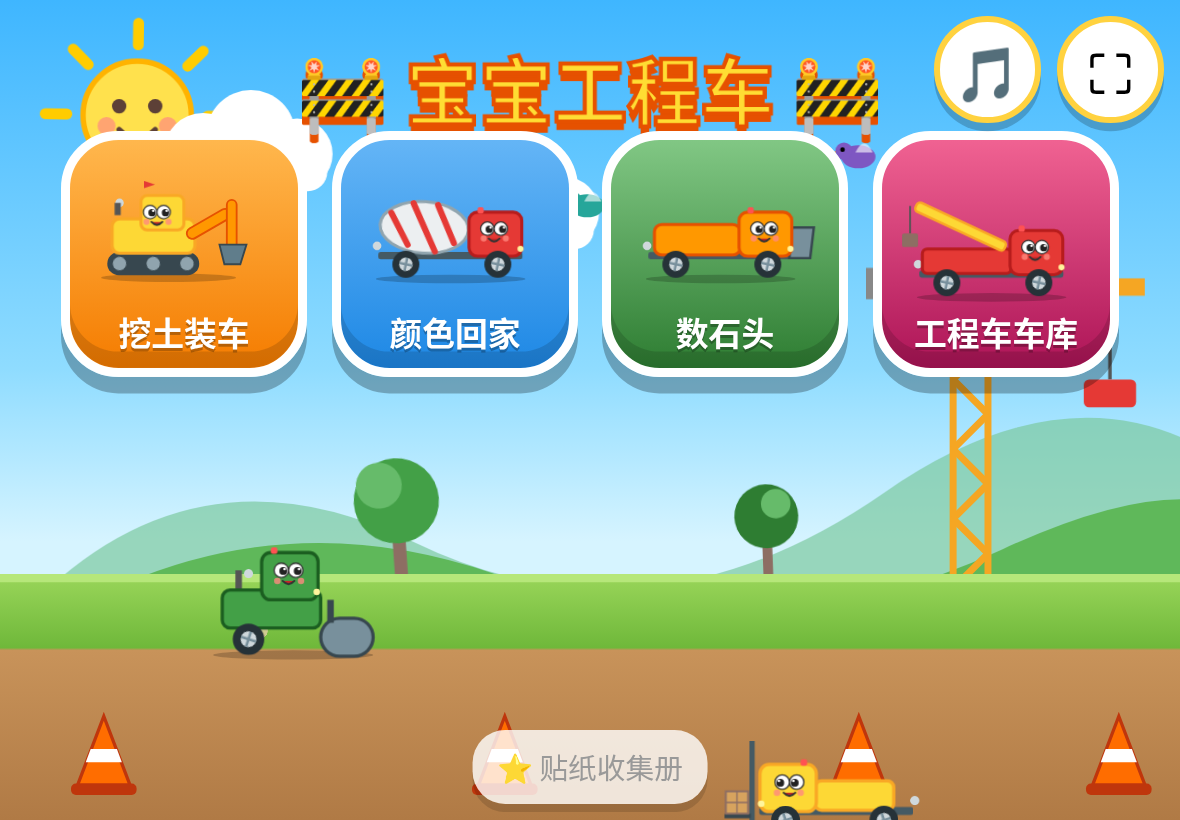
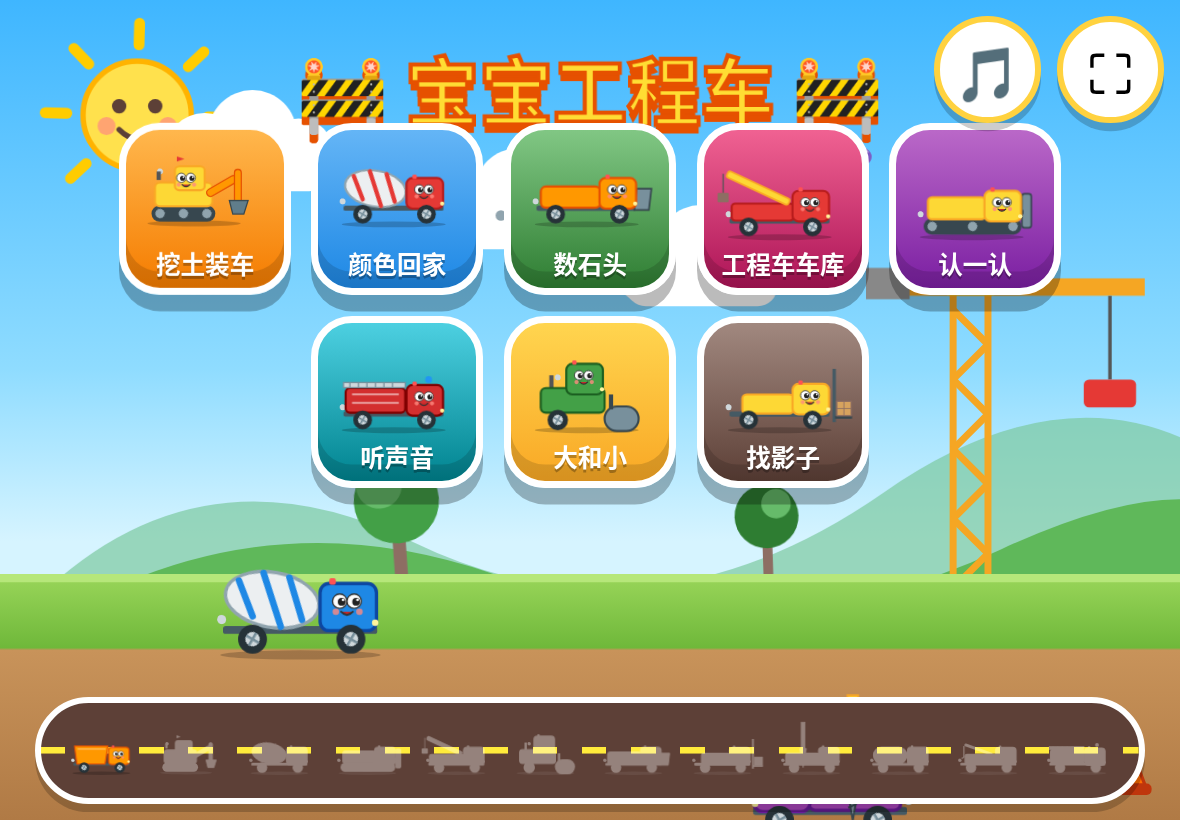
Games 5-8 + progress road

diff --git a/index.html b/index.html
@@ -93,6 +93,19 @@ svg{overflow:visible}.tap{cursor:pointer;pointer-events:auto}
 @keyframes scoop{50%{transform:rotate(-30deg)}}@keyframes rollA{50%{transform:translateX(18px)}}
 #nm{position:fixed;left:50%;bottom:4vh;transform:translateX(-50%) scale(0);background:#fff;border-radius:5vmin;padding:1.5vmin 5vmin;font-size:7vmin;font-weight:900;color:#e65100;z-index:35;transition:transform .3s cubic-bezier(.3,1.6,.6,1);pointer-events:none}#nm.show{transform:translateX(-50%) scale(1)}
 #rocks{width:46vw}.rock{width:15vmin;height:13vmin}
+
+.big{width:21vmin;height:21vmin;border-radius:5vmin;border-width:.9vmin;font-size:3vmin}#btns{inset:15vh 4vw auto 4vw;gap:2.5vmin}
+.big:nth-child(5){animation-delay:.2s}.big:nth-child(6){animation-delay:.6s}.big:nth-child(7){animation-delay:1s}.big:nth-child(8){animation-delay:1.4s}
+.ch{position:absolute;top:16vh;bottom:5vh;left:3vw;right:3vw;display:flex;justify-content:space-around;align-items:center;pointer-events:none}
+.card{pointer-events:auto;background:#fffd;border-radius:5vmin;border:1vmin solid #ffd23f;box-shadow:0 1.5vmin 0 #0003;display:flex;align-items:center;justify-content:center;width:28vw;max-width:42vmin;aspect-ratio:1.2}
+.card svg{width:90%}.card:active{transform:scale(.94)}
+.sil svg{filter:brightness(0);opacity:.35}
+#drag8{position:absolute;bottom:3vh;left:50%;width:30vmin;margin-left:-15vmin;touch-action:none}
+#c8{bottom:40vh;top:14vh}
+#replay{position:absolute;left:50%;bottom:4vh;transform:translateX(-50%);width:18vmin;height:18vmin;font-size:10vmin}
+#road{position:absolute;left:3vw;right:3vw;bottom:2vh;height:13vmin;background:#5d4037;border-radius:7vmin;border:.8vmin solid #fff;display:flex;align-items:center;justify-content:space-around;padding:0 2vmin;box-shadow:0 1vmin 0 #0003;background-image:repeating-linear-gradient(90deg,#ffeb3b 0 3vmin,transparent 3vmin 6vmin);background-size:100% .8vmin;background-position:center;background-repeat:no-repeat;background-color:#5d4037}
+#road svg{width:9vmin;height:9vmin}#road .lock svg{filter:brightness(0) invert(1);opacity:.35}
+#stickers{display:none}
 </style></head><body>
 <div id="bg">
  <svg class="abs hill" style="opacity:.7;animation-duration:90s" viewBox="0 0 2200 300" preserveAspectRatio="none"><path d="M0 300 Q150 40 350 180 T750 120 T1100 160 T1450 60 T1800 170 T2200 120V300z" fill="#7cc9a0"/></svg>
@@ -119,12 +132,20 @@ svg{overflow:visible}.tap{cursor:pointer;pointer-events:auto}
  <div id="btns"><div class="big" style="background:linear-gradient(#ffb74d,#f57c00)" data-g="g1"><svg viewBox="-10 -10 290 190" id="m1"></svg>挖土装车</div>
  <div class="big" style="background:linear-gradient(#64b5f6,#1e88e5)" data-g="g2"><svg viewBox="-10 -10 290 190" id="m2"></svg>颜色回家</div>
  <div class="big" style="background:linear-gradient(#81c784,#2e7d32)" data-g="g3"><svg viewBox="-10 -10 290 190" id="m3"></svg>数石头</div>
- <div class="big" style="background:linear-gradient(#f06292,#ad1457)" data-g="g4"><svg viewBox="-10 -70 290 250" id="m4"></svg>工程车车库</div></div>
+ <div class="big" style="background:linear-gradient(#f06292,#ad1457)" data-g="g4"><svg viewBox="-10 -70 290 250" id="m4"></svg>工程车车库</div>
+ <div class="big" style="background:linear-gradient(#ba68c8,#7b1fa2)" data-g="g5"><svg viewBox="-10 -70 290 250" id="m5"></svg>认一认</div>
+ <div class="big" style="background:linear-gradient(#4dd0e1,#00838f)" data-g="g6"><svg viewBox="-10 -70 290 250" id="m6"></svg>听声音</div>
+ <div class="big" style="background:linear-gradient(#ffd54f,#f9a825)" data-g="g7"><svg viewBox="-10 -70 290 250" id="m7"></svg>大和小</div>
+ <div class="big" style="background:linear-gradient(#a1887f,#5d4037)" data-g="g8"><svg viewBox="-10 -70 290 250" id="m8"></svg>找影子</div></div><div id="road"></div>
  <div id="stickers"></div></div>
 <div id="g1" class="scr"><div class="lbl">点挖掘机挖土</div><div id="hand">👆</div><svg id="ex" class="tap" viewBox="0 0 260 170"></svg><svg id="dt" viewBox="0 0 260 170"></svg></div>
 <div id="g2" class="scr"><div class="lbl">把车送回同色车库</div><div id="garages"></div><svg id="ctruck" class="hint tap" viewBox="0 0 260 170"></svg></div>
 <div id="g3" class="scr"><div class="lbl">把石头装上车</div><div id="num"></div><div id="rocks"></div><svg id="ctr" viewBox="0 0 260 170"></svg></div>
 <div id="g4" class="scr"><div class="lbl">点一点，认识工程车</div><div id="gar"></div></div>
+<div id="g5" class="scr"><div class="lbl">认一认</div><div id="c5" class="ch"></div></div>
+<div id="g6" class="scr"><div class="lbl">听声音猜车</div><div id="c6" class="ch"></div><div id="replay" class="rb tap">🔊</div></div>
+<div id="g7" class="scr"><div class="lbl">大和小</div><div id="c7" class="ch"></div></div>
+<div id="g8" class="scr"><div class="lbl">找影子</div><div id="c8" class="ch"></div><svg id="drag8" class="hint tap" viewBox="-20 -60 300 230"></svg></div>
 <div id="nm"></div>
 <div id="cel"><div id="bigtruck"></div><div id="stk"></div></div>
 <script>
@@ -181,19 +202,19 @@ document.querySelectorAll('.cloud svg').forEach(c=>c.onpointerdown=()=>{ac();sli
 document.querySelectorAll('.bird svg').forEach(b=>b.onpointerdown=()=>{ac();tweet();say('小鸟，叽叽喳');anim(b,'jump',700)});
 document.querySelectorAll('.cone').forEach(c=>c.onpointerdown=()=>{ac();bang();say('路锥');anim(c,'jump',700)});
 /* ---------- menu ---------- */
-$('#m1').innerHTML=veh('excavator');$('#m2').innerHTML=veh('mixer','#e53935');$('#m3').innerHTML=veh('loader');$('#m4').innerHTML=veh('crane');
+$('#m1').innerHTML=veh('excavator');$('#m2').innerHTML=veh('mixer','#e53935');$('#m3').innerHTML=veh('loader');$('#m4').innerHTML=veh('crane');$('#m5').innerHTML=veh('bulldozer');$('#m6').innerHTML=veh('fire');$('#m7').innerHTML=veh('roller');$('#m8').innerHTML=veh('forklift');
 function drivers(){$('#drivers').innerHTML=[[72,9,0,''],[84,13,-5,'rev'],[62,11,-3,'']].map(([b,d,dl,r])=>`<svg class="drv ${r}" style="top:${b}vh;animation-duration:${d}s;animation-delay:${dl}s" viewBox="-20 -60 300 230">${veh(pick(TYPES))}</svg>`).join('')}drivers();
 const STK=['🚜','🚧','⭐','🏗','🚛','🌈','🎈','🦺','🏆','🌟','🚚','🎉','🚒'];let stickers=[];try{stickers=JSON.parse(localStorage.getItem('tt_st')||'[]')}catch(e){}
 function drawSt(){$('#stickers').innerHTML=stickers.slice(-24).map(s=>`<span>${s}</span>`).join('')}drawSt();
 let cur;const NAMES={g1:'挖土装车',g2:'颜色回家',g3:'数石头',g4:'工程车车库'};
-function show(id){document.querySelectorAll('.scr').forEach(s=>s.classList.remove('on'));$('#'+id).classList.add('on');$('#home').style.display=id=='menu'?'none':'flex';cur=id;if(id=='menu'){drawSt();drivers();ask('选一个游戏吧')}else({g1:s1,g2:s2,g3:s3,g4:s4})[id]()}
+function show(id){document.querySelectorAll('.scr').forEach(s=>s.classList.remove('on'));$('#'+id).classList.add('on');$('#home').style.display=id=='menu'?'none':'flex';cur=id;if(id=='menu'){drawSt();drawRoad();drivers();ask('选一个游戏吧')}else({g1:s1,g2:s2,g3:s3,g4:s4,g5:s5,g6:s6,g7:s7,g8:s8})[id]()}
 document.querySelectorAll('.big').forEach(b=>b.addEventListener('pointerdown',()=>{ac();pop();show(b.dataset.g)}));
 $('#home').onpointerdown=()=>{pop();show('menu')};
 $('#fs').onpointerdown=()=>{ac();const d=document.documentElement,f=d.requestFullscreen||d.webkitRequestFullscreen;if(document.fullscreenElement||document.webkitFullscreenElement)(document.exitFullscreen||document.webkitExitFullscreen).call(document);else if(f)f.call(d)};
 function act(svg,t){anim(svg,'go',1300);V[t].s()}
 /* ---------- celebration ---------- */
 const CS=['#e53935','#fdd835','#1e88e5','#43a047','#ab47bc','#ff9800'];
-function celebrate(next,t){const cel=$('#cel');praise();setTimeout(horn,900);
+function celebrate(next,t){const cel=$('#cel');praise();addWin();setTimeout(horn,900);
  for(let i=0;i<36;i++){const d=document.createElement('div');d.className='conf';d.style.left=R()*100+'vw';d.style.background=CS[i%6];d.style.animationDelay=R()*.6+'s';cel.appendChild(d);setTimeout(()=>d.remove(),2800)}
  for(let k=0;k<3;k++)setTimeout(()=>{const x=15+R()*70,y=15+R()*35;for(let i=0;i<14;i++){const s=document.createElement('div'),a=i/14*6.283;s.className='spark';s.style.left=x+'vw';s.style.top=y+'vh';s.style.background=CS[(i+k)%6];s.style.setProperty('--x',Math.cos(a)*18+'vmin');s.style.setProperty('--y',Math.sin(a)*18+'vmin');cel.appendChild(s);setTimeout(()=>s.remove(),1200)}},k*400);
  for(let i=0;i<5;i++){const b=document.createElement('div');b.className='bal';b.style.left=5+i*19+'vw';b.style.animationDelay=i*.15+'s';b.innerHTML=`<svg viewBox="0 0 40 70"><ellipse cx="20" cy="20" rx="17" ry="20" fill="${CS[i]}"/><ellipse cx="13" cy="13" rx="4" ry="6" fill="#fff8"/><path d="M20 40q-5 15 3 30" stroke="#555" fill="none"/></svg>`;cel.appendChild(b);setTimeout(()=>b.remove(),3400)}
@@ -223,8 +244,30 @@ function drawCT(){let l='';for(let i=0;i<have;i++)l+=`<path d="M${22+(i%3)*42} $
 /* ---------- game 4: vehicle garage ---------- */
 function s4(){$('#gar').innerHTML=TYPES.map(t=>`<div class="vc tap" data-t="${t}"><svg viewBox="-25 -60 310 235">${veh(t)}</svg></div>`).join('');ask('点一点，认识工程车');
  document.querySelectorAll('.vc').forEach(c=>c.onpointerdown=()=>{ac();const t=c.dataset.t;act(c.querySelector('svg'),t);say(V[t].n,150);const nm=$('#nm');nm.textContent=V[t].n;nm.classList.add('show');clearTimeout(nm._t);nm._t=setTimeout(()=>nm.classList.remove('show'),1600)})}
+
+
+/* ---------- choice games 5-8 ---------- */
+let W=JSON.parse(localStorage.getItem('tt_w')||'{}'),gbusy=false;
+const wn=g=>W[g]||0,nC=g=>wn(g)>=3?3:2;
+function shuffle(a){return a.sort(()=>R()-.5)}
+function cardsHTML(list,fn){return list.map((x,i)=>`<div class="card tap" data-i="${i}">${fn(x,i)}</div>`).join('')}
+function choice(g,list,ok,fn,q,onAsk,wrap=''){gbusy=false;const c=$('#c'+g[1]);c.innerHTML=cardsHTML(list,(x,i)=>`<div class="${wrap}" style="width:100%;display:flex;justify-content:center"><svg viewBox="-25 -60 310 235" style="width:${x.sz||90}%">${veh(x.t,x.c)}</svg></div>`);ask(q);if(onAsk)onAsk();
+ c.querySelectorAll('.card').forEach(el=>el.onpointerdown=()=>{if(gbusy)return;ac();const x=list[+el.dataset.i];if(ok(x)){gbusy=true;W[g]=wn(g)+1;act(el.querySelector('svg'),x.t);anim(el,'boing',600);setTimeout(()=>celebrate(()=>{if(cur==g)({g5:s5,g6:s6,g7:s7,g8:s8})[g]()},x.t),500)}else{hint();if(onAsk)setTimeout(onAsk,2200);el.animate([{transform:'rotate(0)'},{transform:'rotate(4deg)'},{transform:'rotate(-4deg)'},{transform:'rotate(0)'}],400)}})}
+function s5(){const ts=shuffle([...TYPES]).slice(0,nC('g5')),t=pick(ts);choice('g5',ts.map(x=>({t:x})),x=>x.t==t,null,'哪个是'+V[t].n+'？')}
+let snd6;function s6(){const ts=shuffle([...TYPES]).slice(0,nC('g6')),t=pick(ts);snd6=()=>setTimeout(()=>V[t].s(),1600);choice('g6',ts.map(x=>({t:x})),x=>x.t==t,null,'听一听，是哪辆车的声音？',snd6)}
+$('#replay').onpointerdown=()=>{ac();snd6&&snd6()};
+function s7(){const t=pick(TYPES),big=R()<.5;choice('g7',shuffle([{t,sz:100,b:1},{t,sz:45,b:0}]),x=>x.b==big,null,(big?'点大的':'点小的')+V[t].n)}
+let t8;function s8(){gbusy=false;const ts=shuffle([...TYPES]).slice(0,nC('g8'));t8=pick(ts);const c=$('#c8');c.innerHTML=cardsHTML(ts,x=>`<div class="sil" style="width:100%;display:flex;justify-content:center"><svg viewBox="-25 -60 310 235" style="width:90%">${veh(x)}</svg></div>`);c.querySelectorAll('.card').forEach((el,i)=>el.dataset.t=ts[i]);
+ const d=$('#drag8');d.style.transition='none';d.style.transform='';d.style.opacity=1;d.innerHTML=veh(t8);d.classList.add('hint');ask('把'+V[t8].n+'拖到它的影子上');
+ c.querySelectorAll('.card').forEach(el=>el.onpointerdown=()=>{ac();if(el.dataset.t==t8)win8(el);else hint()})}
+function win8(el){if(gbusy)return;gbusy=true;W.g8=wn('g8')+1;const d=$('#drag8');d.style.opacity=0;el.querySelector('.sil').classList.remove('sil');act(el.querySelector('svg'),t8);setTimeout(()=>celebrate(()=>{if(cur=='g8')s8()},t8),500)}
+(()=>{const t=$('#drag8');let sx,sy,dr=false;t.addEventListener('pointerdown',e=>{if(gbusy)return;ac();pop();dr=true;sx=e.clientX;sy=e.clientY;t.classList.remove('hint');t.style.transition='none';try{t.setPointerCapture(e.pointerId)}catch(_){}});t.addEventListener('pointermove',e=>{if(dr)t.style.transform=`translate(${e.clientX-sx}px,${e.clientY-sy}px)`});t.addEventListener('pointerup',e=>{if(!dr)return;dr=false;const el=[...document.querySelectorAll('#c8 .card')].find(g=>{const r=g.getBoundingClientRect();return e.clientX>r.left-30&&e.clientX<r.right+30&&e.clientY>r.top-30&&e.clientY<r.bottom+60});t.style.transition='transform .4s';t.style.transform='';t.classList.add('hint');if(el){el.dataset.t==t8?win8(el):hint()}else if(Math.abs(e.clientX-sx)+Math.abs(e.clientY-sy)>30)hint();else ask(lastQ)})})();
+/* ---------- progress road ---------- */
+let total=+(localStorage.getItem('tt_tot')||0);const unl=()=>Math.min(TYPES.length,1+Math.floor(total/3));
+function drawRoad(){$('#road').innerHTML=TYPES.map((t,i)=>`<span class="${i<unl()?'':'lock'}"><svg viewBox="-25 -60 310 235">${veh(t)}</svg></span>`).join('')}
+function addWin(){const before=unl();total++;try{localStorage.setItem('tt_tot',total);localStorage.setItem('tt_w',JSON.stringify(W))}catch(e){}if(unl()>before)say('解锁新车：'+V[TYPES[unl()-1]].n+'！',1700)}
 /* ---------- no zoom / menus ---------- */
 ['contextmenu','gesturestart','dblclick','selectstart'].forEach(ev=>document.addEventListener(ev,e=>e.preventDefault()));document.addEventListener('touchmove',e=>e.preventDefault(),{passive:false});
-if(location.hash)show(location.hash.slice(1));
+drawRoad();if(location.hash)show(location.hash.slice(1));
 </script>
 </body></html>
